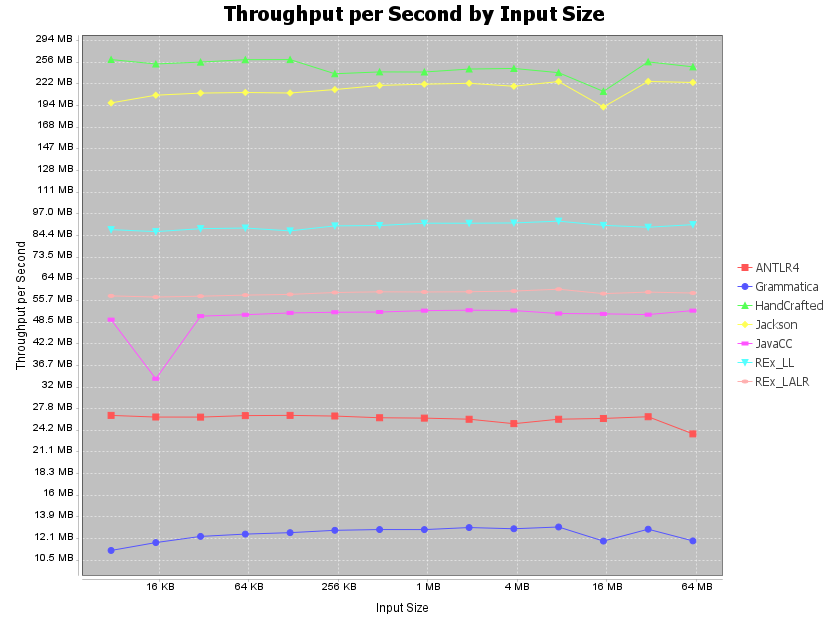
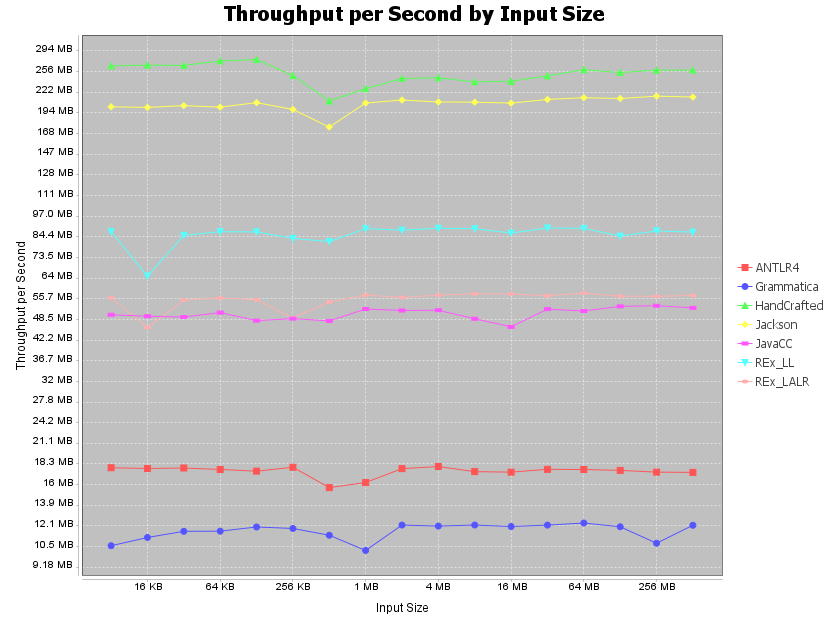
add BaseX ixml measurement using Markup Blitz 1.0

diff --git a/src/main/java/de/bottlecaps/rex/benchmark/json/CommandLine.java b/src/main/java/de/bottlecaps/rex/benchmark/json/CommandLine.java
@@ -15,14 +15,13 @@ import de.bottlecaps.rex.benchmark.json.parsers.java.JavaCC;
 import de.bottlecaps.rex.benchmark.json.parsers.java.REx_LALR;
 import de.bottlecaps.rex.benchmark.json.parsers.java.REx_LL;
 import de.bottlecaps.rex.benchmark.json.parsers.xquery.BaseX;
-import de.bottlecaps.rex.benchmark.json.parsers.xquery.BaseXIxmlEarley;
+import de.bottlecaps.rex.benchmark.json.parsers.xquery.BaseXIxml;
 import de.bottlecaps.rex.benchmark.json.parsers.xquery.BaseXRExLALR;
 import de.bottlecaps.rex.benchmark.json.parsers.xquery.BaseXRExLALRExternal;
 import de.bottlecaps.rex.benchmark.json.parsers.xquery.BaseXRExLL;
 import de.bottlecaps.rex.benchmark.json.parsers.xquery.BaseXRExLLExternal;
 import de.bottlecaps.rex.benchmark.json.parsers.xquery.Saxon;
 import de.bottlecaps.rex.benchmark.json.parsers.xquery.SaxonIxmlEarley;
-import de.bottlecaps.rex.benchmark.json.parsers.xquery.SaxonIxmlGLL;
 import de.bottlecaps.rex.benchmark.json.parsers.xquery.SaxonRExLALR;
 import de.bottlecaps.rex.benchmark.json.parsers.xquery.SaxonRExLALRExternal;
 import de.bottlecaps.rex.benchmark.json.parsers.xquery.SaxonRExLL;
@@ -46,14 +45,15 @@ public class CommandLine {
       new BaseXRExLALRExternal(),
       new BaseXRExLL(),
       new BaseXRExLALR(),
-      new BaseXIxmlEarley(),
+      new BaseXIxml(),
       new Saxon(),
       new SaxonRExLLExternal(),
       new SaxonRExLALRExternal(),
       new SaxonRExLL(),
       new SaxonRExLALR(),
       new SaxonIxmlEarley(),
-      new SaxonIxmlGLL(),
+//      disabled, waiting for https://github.com/nineml/nineml/issues/42
+//      new SaxonIxmlGLL(),
   };
 
   private List<Parser> testParsers;

diff --git a/src/main/java/de/bottlecaps/rex/benchmark/json/parsers/xquery/BaseXIxml.java b/src/main/java/de/bottlecaps/rex/benchmark/json/parsers/xquery/BaseXIxml.java
@@ -1,0 +1,7 @@
+package de.bottlecaps.rex.benchmark.json.parsers.xquery;
+
+public class BaseXIxml extends AbstractBaseXParser {
+  public BaseXIxml() {
+    super("basex-ixml.xq");
+  }
+}

diff --git a/README.md b/README.md
@@ -19,7 +19,7 @@ Benchmark results are dumped to these files:
 
 The benchmark covers two execution platforms:
 * Java - parsers generated as Java code for direct invocation from Java.
-* XQuery - parsers generated for use in XQuery, either generated as XQuery code, or generated as Java code for being used as an external function from XQuery, executed on [BaseX](https://basex.org/) or [SaxonJ-HE](https://www.saxonica.com/products/products.xml).
+* XQuery - parsers generated for use in XQuery, either generated as XQuery code, or generated as Java code for being used as an external function from XQuery, executed on [BaseX 10.8][BaseX] or [SaxonJ-HE 12.3][SaxonJ-HE].
 
 
 ## Available parsers in Java
@@ -28,15 +28,15 @@ The result of all parsers for Java is a [com.fasterxml.jackson.databind.JsonNode
 
 These parsers are available:
 
-| Parser Name   | Generator                | Algorithm               |                                                        |
-| :------------ | :----------------------: | :---------------------: | :----------------------------------------------------- |
-| `Jackson`     |                          |                         | Reference: [com.fasterxml.jackson.core.JsonParser][JP] |
-| `HandCrafted` |                          | [recursive descent][RD] |                                                        |
-| `REx_LL`      | [REx][Rex]               | [LL][LL]                |                                                        |
-| `REx_LALR`    | [REx][Rex]               | [LALR][LALR]            |                                                        |
-| `JavaCC`      | [JavaCC][JavaCC]         | [LL][LL]                |                                                        |
-| `ANTLR4`      | [ANTLR 4][ANTLR4]        | [LL][LL]                |                                                        |
-| `Grammatica`  | [Grammatica][Grammatica] | [LL][LL]                |                                                        |
+| Parser Name   | Generator                    | Algorithm               |                                                        |
+| :------------ | :--------------------------: | :---------------------: | :----------------------------------------------------- |
+| `Jackson`     |                              |                         | Reference: [com.fasterxml.jackson.core.JsonParser][JP] |
+| `HandCrafted` |                              | [recursive descent][RD] |                                                        |
+| `REx_LL`      | [REx 5.56][Rex]              | [LL][LL]                |                                                        |
+| `REx_LALR`    | [REx 5.56][Rex]              | [LALR][LALR]            |                                                        |
+| `JavaCC`      | [JavaCC 7.0.12][JavaCC]      | [LL][LL]                |                                                        |
+| `ANTLR4`      | [ANTLR 4.13.1][ANTLR4]       | [LL][LL]                |                                                        |
+| `Grammatica`  | [Grammatica 1.6][Grammatica] | [LL][LL]                |                                                        |
 
 ## Available parsers in XQuery
 The result of parsers for XQuery is an XML element as it would be produced by `fn:json-to-xml` (see definition in [XPath and XQuery 3.1 Functions and Operators](https://www.w3.org/TR/xpath-functions-31/#func-json-to-xml)).
@@ -44,18 +44,20 @@ The result of parsers for XQuery is an XML element as it would be produced by `f
 | Parser Name            | Generator          | Algorithm        | Language | XQuery Processor       |                                   |
 | :--------------------- | :----------------: | :--------------: | :------: | :--------------------: | :-------------------------------- |
 | `BaseX`                |                    |                  | Java     | [BaseX][BaseX]         | Reference: [`fn:json-to-xml`][fn] |
-| `BaseXRExLL`           | [REx][Rex]         | [LL][LL]         | XQuery   | [BaseX][BaseX]         |                                   |
-| `BaseXRExLALR`         | [REx][Rex]         | [LALR][LALR]     | XQuery   | [BaseX][BaseX]         |                                   |
-| `BaseXRExLLExternal`   | [REx][Rex]         | [LL][LL]         | Java     | [BaseX][BaseX]         |                                   |
-| `BaseXRExLALRExternal` | [REx][Rex]         | [LALR][LALR]     | Java     | [BaseX][BaseX]         |                                   |
-| `BaseXIxmlEarley`      | [CoffeeFilter][CF] | [Earley][Earley] | Java     | [BaseX][BaseX]         |                                   |
+| `BaseXRExLL`           | [REx 5.56][Rex]    | [LL][LL]         | XQuery   | [BaseX][BaseX]         |                                   |
+| `BaseXRExLALR`         | [REx 5.56][Rex]    | [LALR][LALR]     | XQuery   | [BaseX][BaseX]         |                                   |
+| `BaseXRExLLExternal`   | [REx 5.56][Rex]    | [LL][LL]         | Java     | [BaseX][BaseX]         |                                   |
+| `BaseXRExLALRExternal` | [REx 5.56][Rex]    | [LALR][LALR]     | Java     | [BaseX][BaseX]         |                                   |
+| `BaseXIxml`            | [Markup Blitz][MB] | [GLR][GLR]       | Java     | [BaseX][BaseX]         |                                   |
 | `Saxon`                |                    |                  | Java     | [SaxonJ-HE][SaxonJ-HE] | Reference: [`fn:json-to-xml`][fn] |
-| `SaxonRExLL`           | [REx][Rex]         | [LL][LL]         | XQuery   | [SaxonJ-HE][SaxonJ-HE] |                                   |
-| `SaxonRExLALR`         | [REx][Rex]         | [LALR][LALR]     | XQuery   | [SaxonJ-HE][SaxonJ-HE] |                                   |
-| `SaxonRExLLExternal`   | [REx][Rex]         | [LL][LL]         | Java     | [SaxonJ-HE][SaxonJ-HE] |                                   |
-| `SaxonRExLALRExternal` | [REx][Rex]         | [LALR][LALR]     | Java     | [SaxonJ-HE][SaxonJ-HE] |                                   |
-| `SaxonIxmlGLL`         | [CoffeeFilter][CF] | [GLL][GLL]       | Java     | [SaxonJ-HE][SaxonJ-HE] |                                   |
+| `SaxonRExLL`           | [REx 5.56][Rex]    | [LL][LL]         | XQuery   | [SaxonJ-HE][SaxonJ-HE] |                                   |
+| `SaxonRExLALR`         | [REx 5.56][Rex]    | [LALR][LALR]     | XQuery   | [SaxonJ-HE][SaxonJ-HE] |                                   |
+| `SaxonRExLLExternal`   | [REx 5.56][Rex]    | [LL][LL]         | Java     | [SaxonJ-HE][SaxonJ-HE] |                                   |
+| `SaxonRExLALRExternal` | [REx 5.56][Rex]    | [LALR][LALR]     | Java     | [SaxonJ-HE][SaxonJ-HE] |                                   |
 | `SaxonIxmlEarley`      | [CoffeeFilter][CF] | [Earley][Earley] | Java     | [SaxonJ-HE][SaxonJ-HE] |                                   |
+<!-- disabled, waiting for https://github.com/nineml/nineml/issues/42
+| `SaxonIxmlGLL`         | [CoffeeFilter][CF] | [GLL][GLL]       | Java     | [SaxonJ-HE][SaxonJ-HE] |                                   |
+-->
 
 ## Building rex-parser-benchmark
 
@@ -141,8 +143,10 @@ This project is subject to the [Apache 2 License][ASL].
 
 [ASL]: http://www.apache.org/licenses/LICENSE-2.0
 [REx]: https://bottlecaps.de/rex
+[MB]: https://github.com/GuntherRademacher/markup-blitz
 [LL]: https://en.wikipedia.org/wiki/LL_parser
 [GLL]: https://www.cs.rhul.ac.uk/research/languages/csle/GLLparsers.html
+[GLR]: https://en.wikipedia.org/wiki/GLR_parser
 [LALR]: https://en.wikipedia.org/wiki/LALR_parser
 [BaseX]: https://basex.org/
 [fn]: https://www.w3.org/TR/xpath-functions-31/#func-json-to-xml
